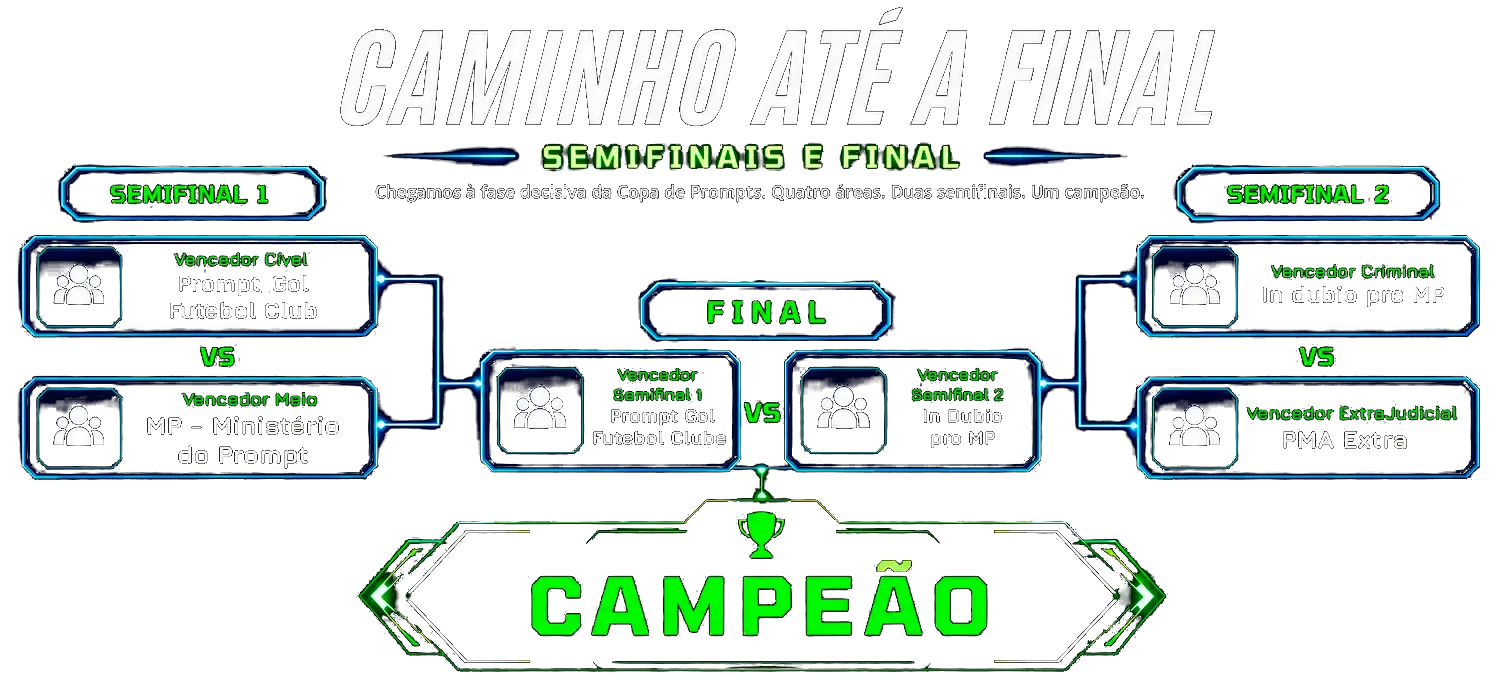
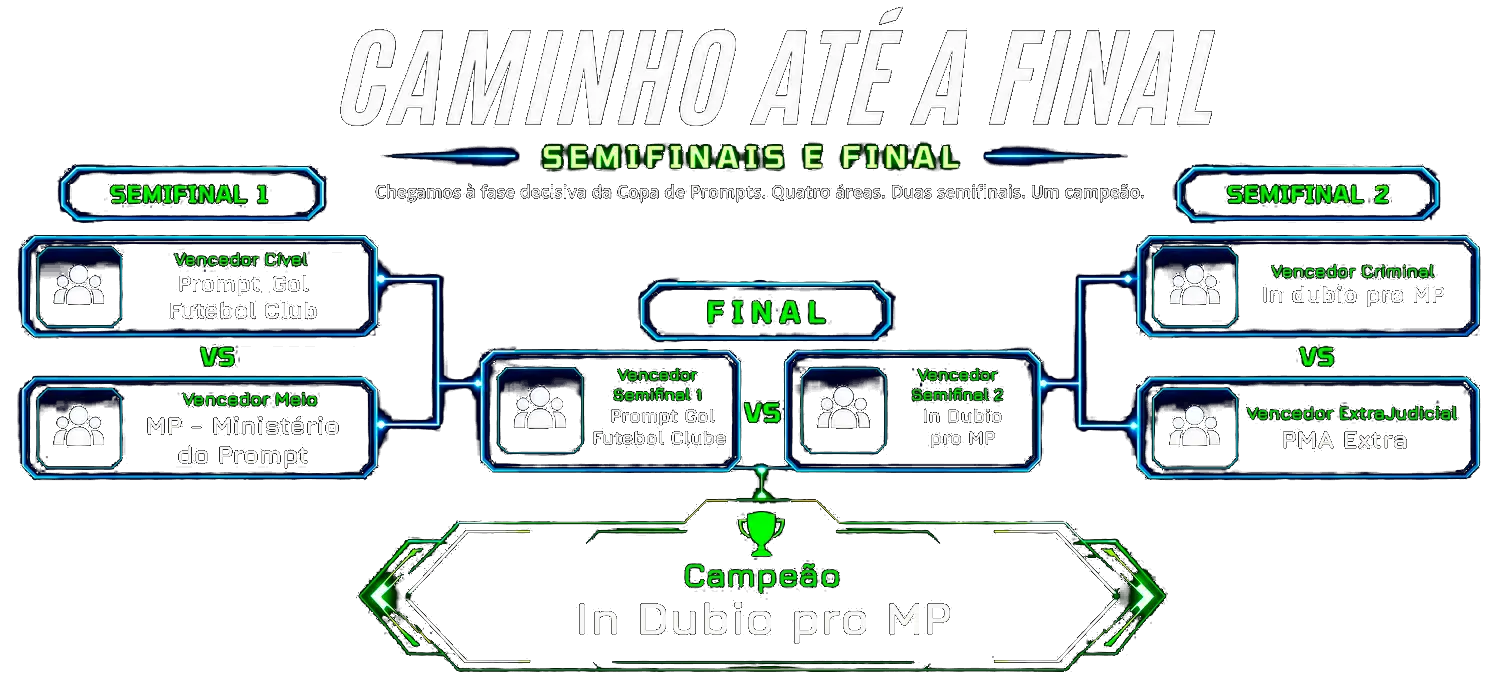
Atualiza grupos e chaveamento da copa

diff --git a/index.html b/index.html
@@ -214,9 +214,11 @@
                         </div>
                         <ul class="groups-team-list">
                             <li class="group-champion">In dubio pro MP <span>Campeões do grupo · 2 jogadores</span></li>
-                            <li class="group-runner-up">Filósofos do Direito Penal <span>2º lugar · 3 jogadores</span></li>
+                            <li class="group-runner-up">Filósofos do Direito Penal <span>2º lugar · 3 jogadores</span>
+                            </li>
                             <li class="group-third-place">ProgAmadores <span>3º lugar · 3 jogadores</span></li>
-                            <li class="group-third-place">Progressão dos Prompts <span>3º lugar · 4 jogadores</span></li>
+                            <li class="group-third-place">Progressão dos Prompts <span>3º lugar · 4 jogadores</span>
+                            </li>
                             <li>Dominus Lex <span>4 jogadores</span></li>
                             <li>Equipe na hora <span>4 jogadores</span></li>
                             <li>Atlas <span>4 jogadores</span></li>
@@ -234,7 +236,8 @@
                             </div>
                         </div>
                         <ul class="groups-team-list">
-                            <li class="group-champion">Prompt_Gol Futebol Club <span>Campeões do grupo · 3 jogadores</span></li>
+                            <li class="group-champion">Prompt_Gol Futebol Club <span>Campeões do grupo · 3
+                                    jogadores</span></li>
                             <li class="group-runner-up">Algoritmo da Gameleira <span>2º lugar · 4 jogadores</span></li>
                             <li class="group-third-place">A Grande Família <span>3º lugar · 3 jogadores</span></li>
                             <li class="group-third-place">Canarana Jurídica <span>3º lugar · 4 jogadores</span></li>
@@ -253,10 +256,10 @@
                             </div>
                         </div>
                         <ul class="groups-team-list">
+                            <li class="group-champion">Seringueiros <span>Campeões do grupo · 2 jogadores · Xapuri</span></li>
+                            <li class="group-runner-up">Balsa FC <span>2º lugar · 2 jogadores · Rodrigues Alves</span></li>
                             <li>ML <span>3 jogadores · Mâncio Lima</span></li>
                             <li>NeymarIA <span>2 jogadores · CZS</span></li>
-                            <li>Balsa FC <span>2 jogadores · Rodrigues Alves</span></li>
-                            <li>Seringueiros <span>2 jogadores · Xapuri</span></li>
                         </ul>
                     </article>
 
@@ -273,7 +276,8 @@
                             <li class="group-champion">PMA Extra <span>Campeões do grupo · 3 jogadores</span></li>
                             <li class="group-runner-up">Prontuário do SUS <span>2º lugar · 4 jogadores</span></li>
                             <li class="group-third-place">Guardiões do Erário <span>3º lugar · 3 jogadoras</span></li>
-                            <li class="group-third-place">Inteligência Ambiental <span>3º lugar · 2 jogadores</span></li>
+                            <li class="group-third-place">Inteligência Ambiental <span>3º lugar · 2 jogadores</span>
+                            </li>
                             <li>Glow Fingers <span>4 jogadores</span></li>
                             <li>Prompt em Tramitação <span>2 jogadores</span></li>
                         </ul>
@@ -289,7 +293,8 @@
                             </div>
                         </div>
                         <ul class="groups-team-list">
-                            <li class="group-champion">MP - Ministério do Prompt <span>Campeões do grupo · 3 jogadores</span></li>
+                            <li class="group-champion">MP - Ministério do Prompt <span>Campeões do grupo · 3
+                                    jogadores</span></li>
                             <li class="group-runner-up">Mentes Sintéticas <span>2º lugar · 4 jogadores</span></li>
                             <li class="group-third-place">Dinamite 10 <span>3º lugar · 4 jogadores</span></li>
                             <li>FiscAIs do Prompt <span>4 jogadores</span></li>
